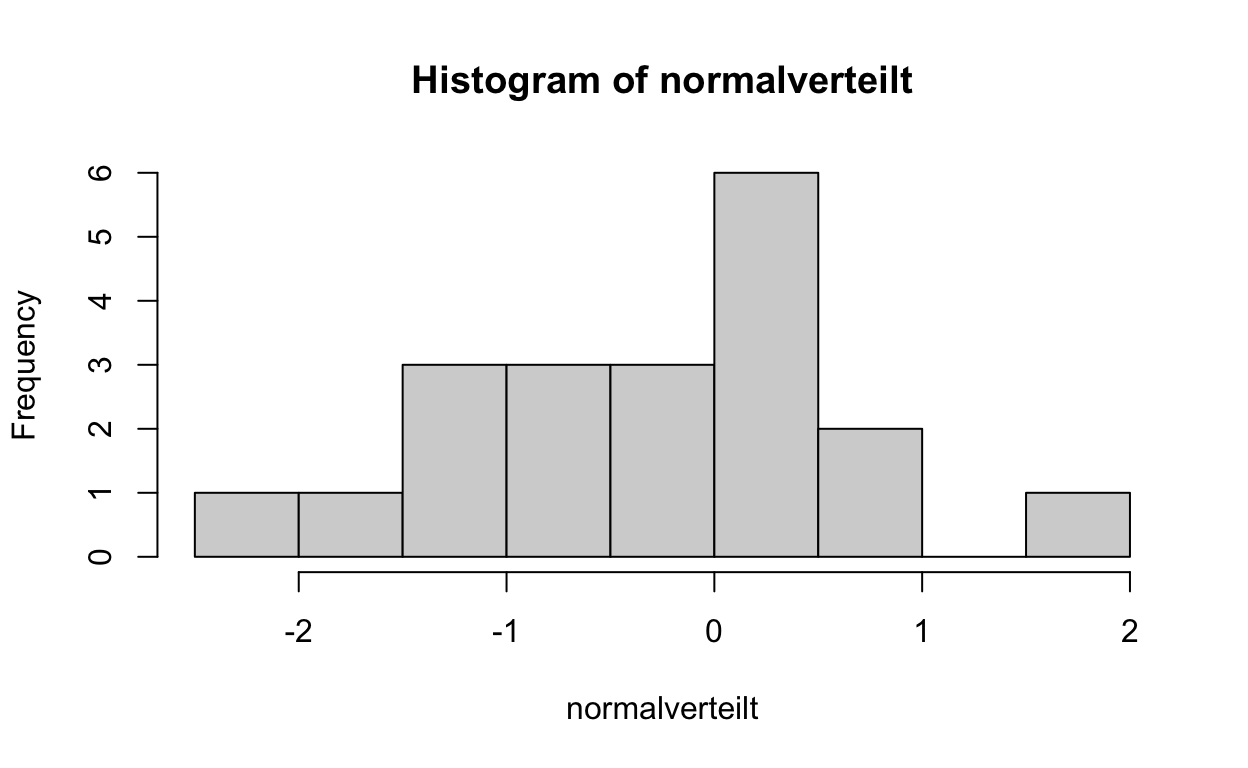
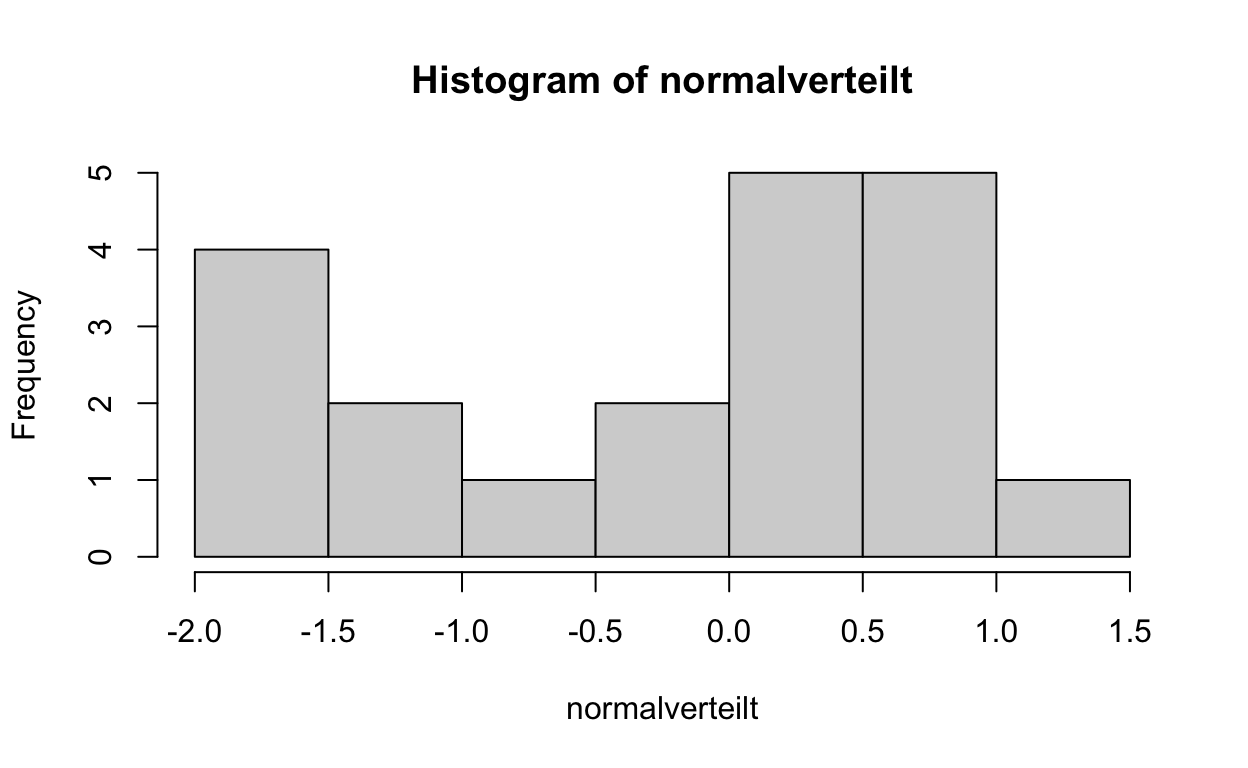
variables for blog

diff --git a/docs/Basic_R_VariabelsFunctions.html b/docs/Basic_R_VariabelsFunctions.html
@@ -2550,8 +2550,8 @@ Funktionen
 <ul>
 <li><p>Funktionen verändern Objekte auf bestimmte Art und Weisen.</p></li>
 <li><p>Eine Funktion kann fast alles sein.</p></li>
-<li><p>Wenn ein Objekt beispielsweise vom Typ ‘numeric’ ist, können Sie es zu anderen ‘numeric’-Objekten hinzufügen.</p></li>
-<li><p>Wenn ein Objekt jedoch ein ‘string’ ist, eine Zeichenkette, können Sie es nicht hinzufügen.</p></li>
+<li><p>Wenn ein Objekt beispielsweise vom Typ ‘numeric’ ist, kannst du es zu anderen ‘numeric’-Objekten hinzufügen.</p></li>
+<li><p>Wenn ein Objekt jedoch ein ‘string’ ist, eine Zeichenkette, kannst du es nicht hinzufügen.</p></li>
 <li><p>Viele Fehlermeldungen resultieren aus dem Versuch, Funktionen auf einen unpassenden Datentyp anzuwenden.</p></li>
 </ul>
 <p>Für die Statistik benötigen wir vor allem Funktionen, die Daten transformieren (z.B., Zuordnen von Zeichenketten zu bestimmten Werten, Erstellen neuer Variablen, Laden von Datensätzen, Speichern von Datensätzen usw.) und Funktionen, die statistische Berechnungen durchführen (z.B., Berechnung von Mittelwerten, Durchführung von Regressionen usw.).</p>
@@ -2605,13 +2605,13 @@ Funktionen
 <div class="sourceCode">
 <pre class="sourceCode r"><code class="sourceCode r"><span><span class='fu'><a href='https://rdrr.io/r/stats/Normal.html'>rnorm</a></span><span class='op'>(</span>n <span class='op'>=</span> <span class='fl'>20</span>, mean <span class='op'>=</span> <span class='fl'>0</span>, sd <span class='op'>=</span> <span class='fl'>1</span><span class='op'>)</span> </span></code></pre>
 </div>
-<pre><code> [1] -0.54595046 -1.88214744 -0.68785122  0.97486960  0.67428371
- [6] -0.43093262 -2.01542380  0.77005655  0.51879047  1.39800163
-[11]  0.90202726 -1.75478834  0.01347225  0.45094930 -0.93298103
-[16] -2.85374735 -0.09496600 -2.39946411 -0.88257782  1.59273187</code></pre>
+<pre><code> [1]  1.8556058  0.9415803 -0.9375688  0.6395727 -0.7767648  0.4514507
+ [7]  2.3164556  0.4025052 -0.1125788 -0.0378198  1.7161532  0.4256496
+[13] -1.3158211 -0.3759083 -0.6751599  0.1441480  0.1894523  1.0431519
+[19]  1.0578660  0.4729306</code></pre>
 </div>
 <ol start="3" type="1">
-<li>The hist() function creates a histogram from the vector of normally distributed variables. This is an example of how functions can also generate graphics from objects.</li>
+<li>Die Funktion hist() erstellt ein Histogramm aus dem Vektor normalverteilter Variablen. Dies ist ein Beispiel dafür, wie Funktionen auch Grafiken aus Objekten generieren können.</li>
 </ol>
 <div class="layout-chunk" data-layout="l-body">
 <div class="sourceCode">
@@ -2621,7 +2621,7 @@ Funktionen
 <p><img src="Basic_R_VariabelsFunctions_files/figure-html5/unnamed-chunk-14-1.png" width="624" /></p>
 </div>
 <h1 id="lets-get-down-to-business">Lets Get Down to Business</h1>
-<h4 id="unten-sind-einige-grundlegende-berechnungen-und-zuweisungen-in-r-studio.-sie-können-diese-code-schnipsel-in-der-r-studio-skript-ausführen-um-die-ergebnisse-zu-sehen.">Unten sind einige grundlegende Berechnungen und Zuweisungen in R Studio. Sie können diese Code-Schnipsel in der R Studio Skript ausführen, um die Ergebnisse zu sehen.</h4>
+<h4 id="unten-sind-einige-grundlegende-berechnungen-und-zuweisungen-in-r-studio.-du-kannst-diese-code-schnipsel-in-der-r-studio-skript-ausführen-um-die-ergebnisse-zu-sehen.">Unten sind einige grundlegende Berechnungen und Zuweisungen in R Studio. Du kannst diese Code-Schnipsel in der R Studio Skript ausführen, um die Ergebnisse zu sehen.</h4>
 <h4 id="grundlegende-arithmetische-operationen">Grundlegende arithmetische Operationen</h4>
 <div class="layout-chunk" data-layout="l-body">
 <div class="sourceCode">
@@ -2677,8 +2677,8 @@ Funktionen
 </div>
 <h4 id="arbeiten-mit-vektoren.">Arbeiten mit Vektoren.</h4>
 <p>In R sind Vektoren eine grundlegende Datenstruktur, die dazu dient, eine geordnete Sammlung von Werten desselben Datentyps zu speichern. Diese Werte können Zahlen, Zeichenfolgen oder andere Datentypen sein. Vektoren ermöglichen es, mehrere Datenpunkte in einer einzigen Variablen zu organisieren und zu verwalten.</p>
-<p>Ein Vektor kann erstellt werden, indem Sie die Funktion c() verwenden, die für “combine” steht. Zum Beispiel, mein_vektor &lt;- c(1, 2, 3, 4, 5) erstellt einen Vektor namens mein_vektor, der die Zahlen 1 bis 5 enthält.</p>
-<p>Vektoren sind besonders nützlich, wenn Sie mit einer Gruppe von Datenpunkten arbeiten möchten, da sie es ermöglichen, Operationen auf alle Elemente des Vektors gleichzeitig anzuwenden. Sie können auch auf einzelne Elemente eines Vektors zugreifen, indem Sie ihren Index verwenden, wobei der Index des ersten Elements 1 ist</p>
+<p>Ein Vektor kann erstellt werden, indem du die Funktion c() verwendest, die für “combine” steht. Zum Beispiel, mein_vektor &lt;- c(1, 2, 3, 4, 5) erstellt einen Vektor namens mein_vektor, der die Zahlen 1 bis 5 enthält.</p>
+<p>Vektoren sind besonders nützlich, wenn du mit einer Gruppe von Datenpunkten arbeiten möchtest, da sie es ermöglichen, Operationen auf alle Elemente des Vektors gleichzeitig anzuwenden.</p>
 <div class="layout-chunk" data-layout="l-body">
 <div class="sourceCode">
 <pre class="sourceCode r"><code class="sourceCode r"><span><span class='co'># Vektoren erstellen</span></span>
@@ -2748,14 +2748,7 @@ Homework
 <p>Erstelle einen numerischen Vektor mit dem Namen ‘noten’ für zehn Schüler.</p>
 <p>Weise jeder Note eine Punktzahl von 1 bis 5 zu, wobei 1 die beste Note ist und 5 die schlechteste.</p>
 <p>Berechne den Durchschnitt dieser Noten und gib ihn aus.</p>
-<div class="layout-chunk" data-layout="l-body">
-<div class="sourceCode">
-<pre class="sourceCode r"><code class="sourceCode r"><span><span class='va'>noten</span> <span class='op'>=</span> <span class='fu'><a href='https://rdrr.io/r/base/c.html'>c</a></span><span class='op'>(</span><span class='fl'>1</span>, <span class='fl'>5</span>, <span class='fl'>3</span>, <span class='fl'>2</span>, <span class='fl'>4</span>, <span class='fl'>2</span>, <span class='fl'>3</span>, <span class='fl'>4</span>, <span class='fl'>1</span>, <span class='fl'>5</span>, <span class='fl'>6</span><span class='op'>)</span></span>
-<span><span class='va'>Durchschnitt_noten</span> <span class='op'>=</span> <span class='fu'><a href='https://rdrr.io/r/base/mean.html'>mean</a></span><span class='op'>(</span><span class='va'>noten</span><span class='op'>)</span></span>
-<span><span class='va'>Durchschnitt_noten</span></span></code></pre>
-</div>
-<pre><code>[1] 3.272727</code></pre>
-</div>
+<h1 id="r-noten-c1-5-3-2-4-2-3-4-1-5-6-durchschnitt_noten-meannoten-durchschnitt_noten"><code>{r} # noten = c(1, 5, 3, 2, 4, 2, 3, 4, 1, 5, 6) # Durchschnitt_noten = mean(noten) # Durchschnitt_noten #</code></h1>
 <p><strong>Hinweise</strong>:</p>
 <ul>
 <li><p>Verwende die Funktion c(), um den Vektor noten zu erstellen.</p></li>
@@ -2766,34 +2759,17 @@ Homework
 <li>Benotung von Schülern</li>
 </ol>
 <p>Erstelle einen Vektor mit den Namen von fünf Schülern in Ihrer Klasse. Nenne den Vektor ‘namen’.</p>
-<div class="layout-chunk" data-layout="l-body">
-<div class="sourceCode">
-<pre class="sourceCode r"><code class="sourceCode r"><span><span class='va'>namen</span> <span class='op'>=</span> <span class='fu'><a href='https://rdrr.io/r/base/c.html'>c</a></span><span class='op'>(</span><span class='st'>"jake"</span>, <span class='st'>"john"</span>, <span class='st'>"clara"</span>, <span class='st'>"manos"</span>, <span class='st'>"tehilla"</span>,</span>
-<span>          <span class='st'>"laura"</span>, <span class='st'>"jenny"</span>, <span class='st'>"carlos"</span>, <span class='st'>"maria"</span>, <span class='st'>"kate"</span><span class='op'>)</span></span></code></pre>
-</div>
-</div>
+<h1 id="r-namen-cjake-john-clara-manos-tehilla-laura-jenny-carlos-maria-kate"><code>{r} # namen = c("jake", "john", "clara", "manos", "tehilla", #           "laura", "jenny", "carlos", "maria", "kate") #</code></h1>
 <ol start="3" type="1">
 <li>Klassenanwesenheit</li>
 </ol>
 <p>Erstelle einen logischen Vektor mit dem Namen ‘anwesenheit’, der anzeigt, welche Schüler an einem bestimmten Tag in der Schule anwesend waren (TRUE) und welche abwesend waren (FALSE).</p>
-<div class="layout-chunk" data-layout="l-body">
-<div class="sourceCode">
-<pre class="sourceCode r"><code class="sourceCode r"><span><span class='va'>anwesenheit</span> <span class='op'>=</span> <span class='fu'><a href='https://rdrr.io/r/base/c.html'>c</a></span><span class='op'>(</span><span class='cn'>TRUE</span>, <span class='cn'>TRUE</span>, <span class='cn'>TRUE</span>, <span class='cn'>TRUE</span>, <span class='cn'>FALSE</span>,</span>
-<span>                <span class='cn'>TRUE</span>, <span class='cn'>TRUE</span>, <span class='cn'>TRUE</span>, <span class='cn'>TRUE</span>, <span class='cn'>FALSE</span><span class='op'>)</span></span></code></pre>
-</div>
-</div>
+<h1 id="r-anwesenheit-ctrue-true-true-true-false-true-true-true-true-false"><code>{r} # anwesenheit = c(TRUE, TRUE, TRUE, TRUE, FALSE, #                 TRUE, TRUE, TRUE, TRUE, FALSE) #</code></h1>
 <ol start="4" type="1">
 <li>Notendiagramm erstellen</li>
 </ol>
 <p>Verwende den Vektor noten aus Aufgabe 1, um ein Balkendiagramm zu erstellen, das die Verteilung der Noten in den verschiedenen Fächern zeigt.</p>
-<div class="layout-chunk" data-layout="l-body">
-<div class="sourceCode">
-<pre class="sourceCode r"><code class="sourceCode r"><span><span class='fu'><a href='https://rdrr.io/r/graphics/plot.default.html'>plot</a></span><span class='op'>(</span><span class='va'>noten</span>, col<span class='op'>=</span><span class='st'>'red'</span>,type<span class='op'>=</span><span class='st'>'p'</span>, pch<span class='op'>=</span><span class='fl'>19</span>,lwd<span class='op'>=</span><span class='fl'>2</span>,cex<span class='op'>=</span><span class='fl'>1.5</span>,</span>
-<span>     main<span class='op'>=</span><span class='st'>"This is my first graph"</span>,</span>
-<span>     col.main<span class='op'>=</span><span class='st'>'blue'</span>,xlab<span class='op'>=</span><span class='st'>"Students"</span>,ylab<span class='op'>=</span><span class='st'>"Grades"</span><span class='op'>)</span></span></code></pre>
-</div>
-<p><img src="Basic_R_VariabelsFunctions_files/figure-html5/unnamed-chunk-23-1.png" width="624" /></p>
-</div>
+<h1 id="r-plotnoten-colredtypep-pch19lwd2cex1.5-mainthis-is-my-first-graph-col.mainbluexlabstudentsylabgrades"><code>{r} # plot(noten, col='red',type='p', pch=19,lwd=2,cex=1.5, #      main="This is my first graph", #      col.main='blue',xlab="Students",ylab="Grades") #</code></h1>
 <p><strong>Hinweise</strong>:</p>
 <p>Verwende die Funktion plot(), um ein Streudiagram zu erstellen. Gib den Vektor noten als Argument an, z.B.: barplot(noten).</p>
 <p>Die Funktion plot() hat die folgende Argumente:</p>
@@ -2807,7 +2783,7 @@ Homework
 <li><p><strong>xlim</strong>: Setzt die Begrenzungen für die x-Achse.</p></li>
 <li><p><strong>ylim</strong>: Setzt die Begrenzungen für die y-Achse.</p></li>
 </ol>
-<div class="sourceCode" id="cb38"><pre class="sourceCode r distill-force-highlighting-css"><code class="sourceCode r"></code></pre></div>
+<div class="sourceCode" id="cb37"><pre class="sourceCode r distill-force-highlighting-css"><code class="sourceCode r"></code></pre></div>
 <!--radix_placeholder_article_footer-->
 <!--/radix_placeholder_article_footer-->
 </div>
